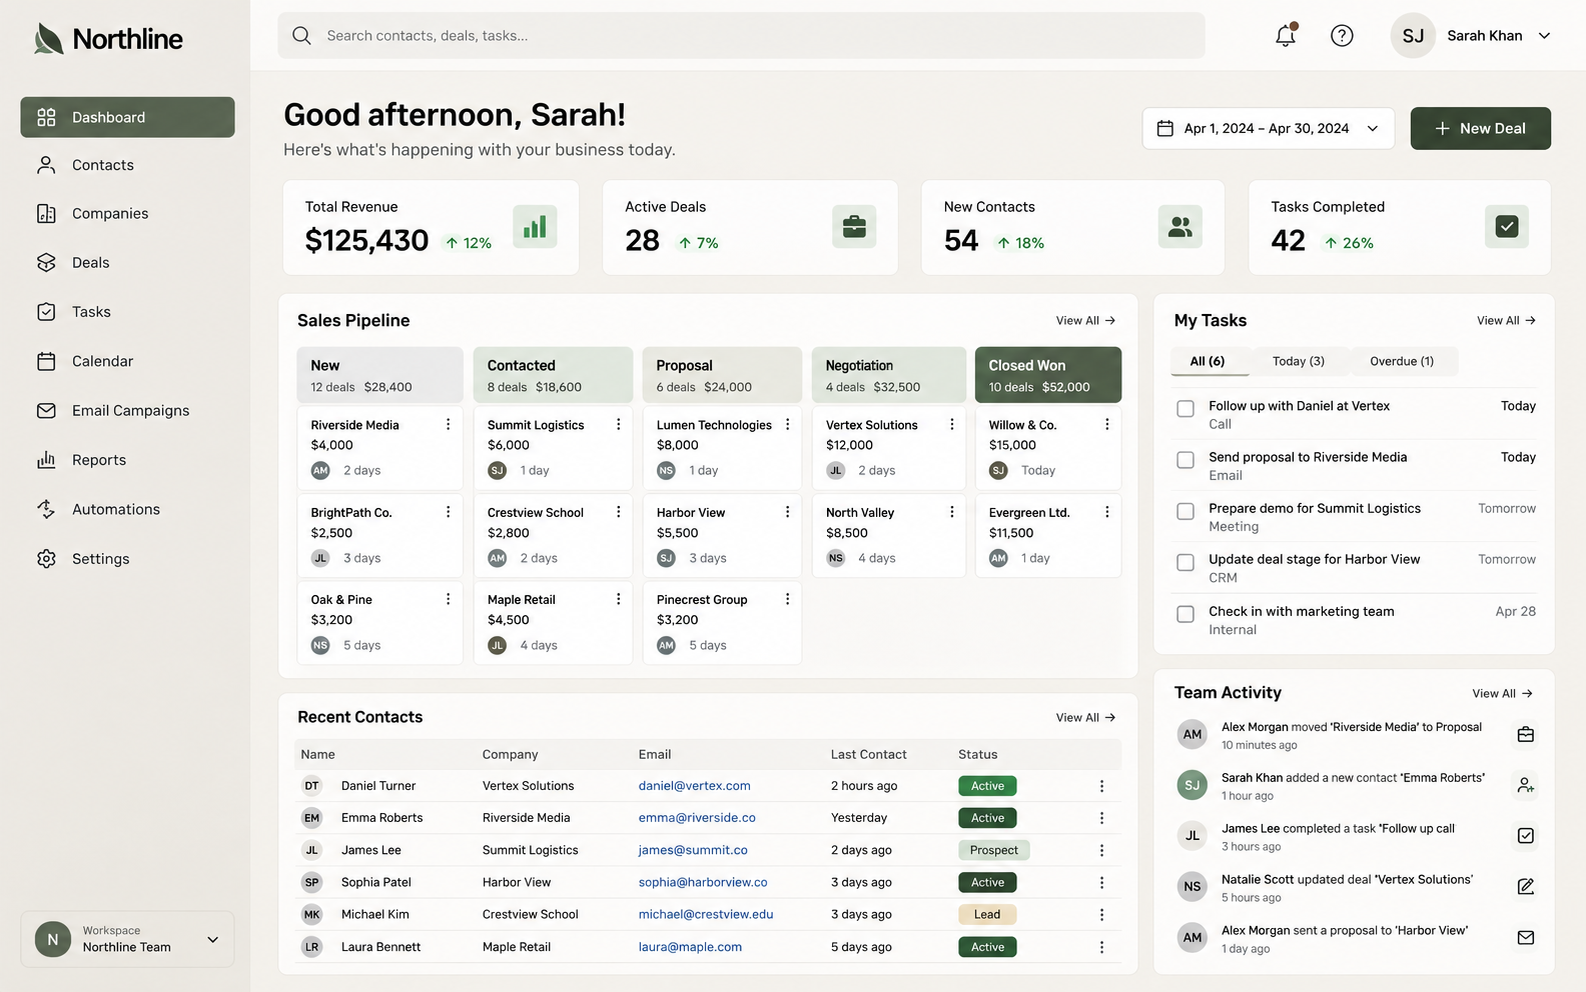
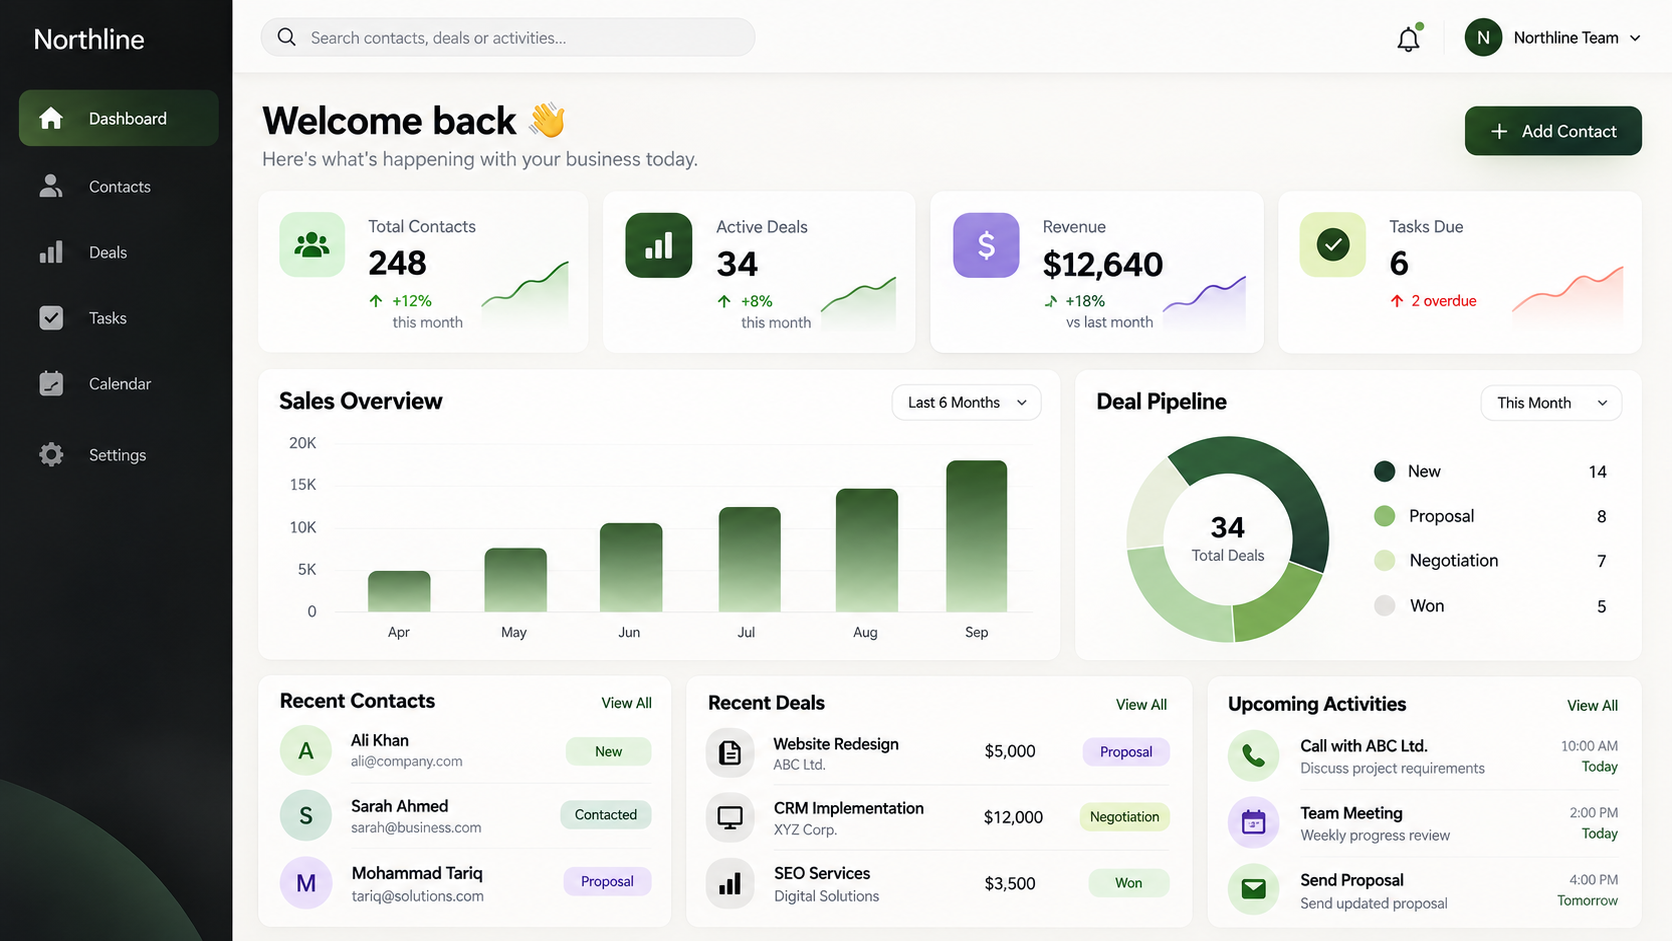
added ui/ux design page

diff --git a/src/components/Hero.jsx b/src/components/Hero.jsx
@@ -179,8 +179,8 @@ export default function Hero() {
                 marginBottom: '2.5rem',
               }}
             >
-              NallGeeks takes your product from architecture to deployment —
-              web, mobile, and cloud. Built for founders who can't afford
+              NallGeeks takes your product from architecture to deployment 
+              Web, Mobile, and Cloud. Built for founders who can't afford
               to ship twice.
             </p>
 
